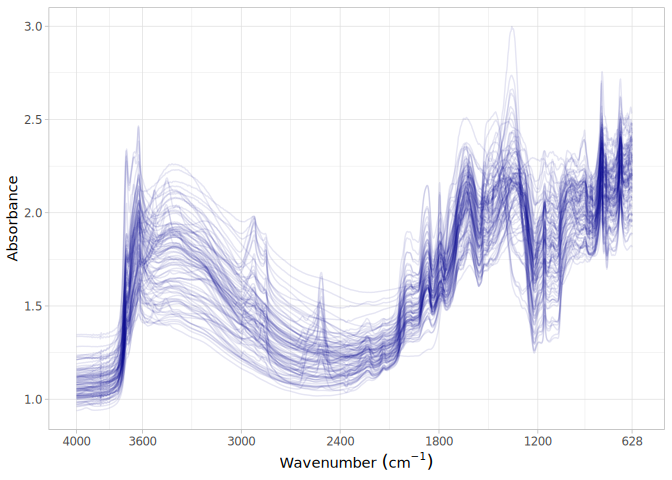
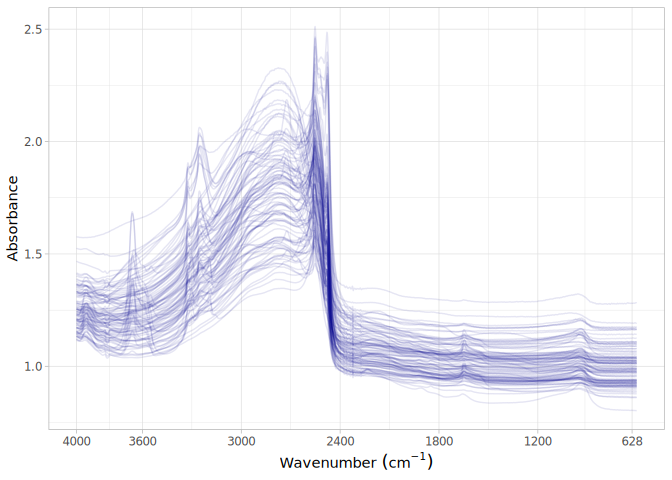
spike removal NEON spectra WCRC

diff --git a/dataset/NEON/README.md b/dataset/NEON/README.md
@@ -18,7 +18,7 @@ Spectral Library.
 Website: [Soil Spectroscopy for Global
 Good](https://soilspectroscopy.org)  
 Development: <https://github.com/soilspectroscopy>  
-Last update: 2026-05-11  
+Last update: 2026-05-17  
 Additional documentation:
 
 ## Original data
@@ -362,15 +362,33 @@ wcrc.mir <- spectra.wcrc %>%
          id.scan_local_c = as.character(id.scan_local_c)) %>%
   mutate(across(all_of(old.spectral.columns), as.numeric))
 
-# Removing X in the spectral columns
-clean.spectral.columns <- gsub("X", "", old.spectral.columns)
+# Removing spikes between 550-650
+spectral.cols.spike <- wcrc.mir %>%
+  pivot_longer(starts_with("X")) %>%
+  mutate(name = as.numeric(gsub("X", "", name))) %>%
+  filter(name >= 550 & name <= 650) %>%
+  mutate(name = paste0("X",name)) %>%
+  distinct(name) %>%
+  pull(name)
 
 wcrc.mir <- wcrc.mir %>%
-  rename_with(~clean.spectral.columns, all_of(old.spectral.columns))
+  arrange(id.scan_local_c) %>%
+  select(all_of(spectral.cols.spike)) %>%
+  as.matrix() %>%
+  mdatools::prep.spikes(., width = 11, threshold = 3) %>%
+  mdatools::prep.savgol(., width = 11, porder = 2, dorder = 0) %>%
+  as_tibble() %>%
+  bind_cols({wcrc.mir %>%
+      arrange(id.scan_local_c) %>%
+      select(-all_of(spectral.cols.spike))}, .) %>%
+  pivot_longer(starts_with("X")) %>%
+  mutate(name = as.numeric(gsub("X", "", name))) %>%
+  arrange(id.scan_local_c, name) %>%
+  pivot_wider()
 
 # Need to resample spectra
-old.wavenumbers <- as.numeric(clean.spectral.columns)
-new.wavenumbers <- rev(seq(628, 4000, by = 2))
+old.wavenumbers <- as.numeric(gsub("X","",old.spectral.columns))
+new.wavenumbers <- rev(seq(600, 4000, by = 2))
 
 wcrc.mir <- wcrc.mir %>%
   select(-starts_with("id.")) %>%
@@ -618,16 +636,13 @@ neon.mir %>%
   theme_light()
 ```
 
-    Warning: Removed 1400 rows containing missing values or values outside the scale range
-    (`geom_line()`).
-
 ![](README_files/figure-commonmark/mir_plot-1.png)
 
 ``` r
 toc()
 ```
 
-    21.589 sec elapsed
+    23.135 sec elapsed
 
 ``` r
 rm(list = ls())
@@ -635,8 +650,8 @@ gc()
 ```
 
                used  (Mb) gc trigger  (Mb) max used  (Mb)
-    Ncells  6134060 327.6   10787088 576.1  8972577 479.2
-    Vcells 11502293  87.8   31091163 237.3 31066400 237.1
+    Ncells  6426089 343.2   11420458 610.0 10016931 535.0
+    Vcells 12027939  91.8   34826367 265.8 34826262 265.8
 
 ## References
 
